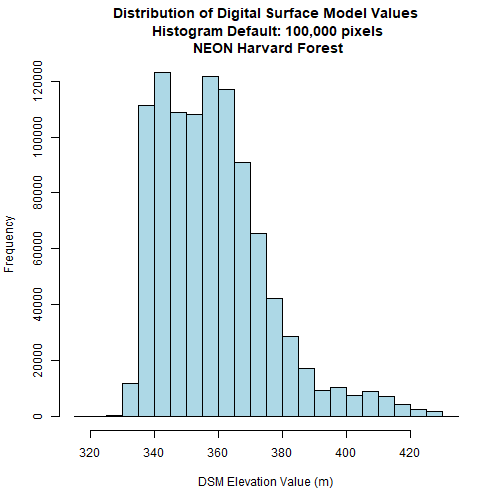
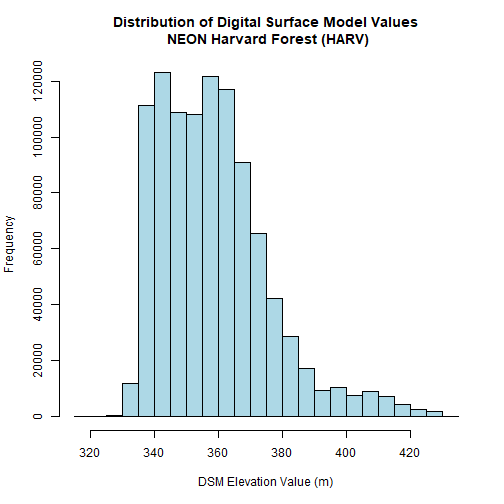
minor updates to remove outdated language

Changed region(s): [[0.2083, 0.0, 0.8333, 0.119]]

diff --git a/tutorials/R/Geospatial-skills/intro-raster-r/00-Raster-Structure/00-Raster-Structure.html b/tutorials/R/Geospatial-skills/intro-raster-r/00-Raster-Structure/00-Raster-Structure.html
@@ -385,6 +385,11 @@ information is strung together as a series of text elements.</p>
 <p>The spatial extent of an R spatial object represents the geographic “edge” or
 location that is the furthest north, south, east and west. In other words, <code>extent</code>
 represents the overall geographic coverage of the spatial object.</p>
+<p>You can see the spatial extent using <code>terra::ext</code>:</p>
+<pre><code>ext(DSM_HARV)
+
+## SpatExtent : 732000, 733000, 4713000, 4714000 (xmin, xmax, ymin, ymax)
+</code></pre>
 <h2 id="resolution">Resolution</h2>
 <p>A raster has horizontal (x and y) resolution. This resolution represents the
 area on the ground that each pixel covers. The units for our data are in meters.
@@ -403,13 +408,13 @@ Given our data resolution is 1 x 1, this means that each pixel represents a
 
 ## [1] &quot;+proj=utm +zone=18 +datum=WGS84 +units=m +no_defs&quot;
 </code></pre>
-<h2 id="calculate-raster-min-and-max-values">Calculate Raster Min and Max Values</h2>
-<p>It is useful to know the minimum or maximum values of a raster dataset. In
+<h2 id="display-raster-min-and-max-values">Display Raster Min and Max Values</h2>
+<p>It can be useful to know the minimum or maximum values of a raster dataset. In
 this case, given we are working with elevation data, these values represent the
 min/max elevation range at our site.</p>
-<p>Raster statistics are often calculated and embedded in a <code>geotiff</code> for us.
+<p>Raster statistics are often calculated and embedded in a <code>Geotiff</code> for us.
 However if they weren’t already calculated, we can calculate them using the
-<code>setMinMax()</code> function.</p>
+<code>min()</code> or <code>max()</code> functions.</p>
 <pre><code># view the min and max values
 
 min(DSM_HARV)
@@ -462,8 +467,7 @@ RGB_HARV &lt;-
 
 par(col.axis=&quot;white&quot;,col.lab=&quot;white&quot;,tck=0)
 
-plotRGB(RGB_HARV, r = 1, g = 2, b = 3, 
-        axes=TRUE, main=&quot;Raster With NoData Values Rendered in Black&quot;)
+plotRGB(RGB_HARV, r = 1, g = 2, b = 3, axes=TRUE)
 </code></pre>
 <p><img src="https://raw.githubusercontent.com/NEONScience/NEON-Data-Skills/main/tutorials/R/Geospatial-skills/intro-raster-r/00-Raster-Structure/rfigs/demonstrate-no-data-black-1.png" alt="Colorized raster image with NoDataValues around the edge rendered in black" /></p>
 <p>In the next image, the black edges have been assigned <code>NoDataValue</code>. R doesn’t
@@ -486,8 +490,13 @@ newRGBImage &lt;- app(RGB_HARV, func)
 
 # Create an RGB image from the raster stack
 
-plotRGB(newRGBImage, r = 1, g = 2, b = 3,
-        axes=TRUE, main=&quot;Raster With No Data Values\nNoDataValue= NA&quot;)
+plotRGB(newRGBImage, r = 1, g = 2, b = 3, axis=TRUE)
+
+## Warning in plot.window(...): &quot;axis&quot; is not a graphical parameter
+
+## Warning in plot.xy(xy, type, ...): &quot;axis&quot; is not a graphical parameter
+
+## Warning in title(...): &quot;axis&quot; is not a graphical parameter
 </code></pre>
 <p><img src="https://raw.githubusercontent.com/NEONScience/NEON-Data-Skills/main/tutorials/R/Geospatial-skills/intro-raster-r/00-Raster-Structure/rfigs/demonstrate-no-data-1.png" alt="Colorized raster image with NoDataValues around the edge removed" /></p>
 <h3 id="nodata-value-standard">NoData Value Standard</h3>
@@ -527,12 +536,12 @@ identifying outliers and bad data values in our raster data.</p>
 <pre><code># view histogram of data
 
 hist(DSM_HARV,
-     main=&quot;Distribution of Digital Surface Model Values\n Histogram Default: 100,000 pixels\n NEON Harvard Forest&quot;,
+     main=&quot;Distribution of Digital Surface Model Values\n NEON Harvard Forest (HARV)&quot;,
      xlab=&quot;DSM Elevation Value (m)&quot;,
      ylab=&quot;Frequency&quot;,
      col=&quot;lightblue&quot;)
 </code></pre>
-<p><img src="https://raw.githubusercontent.com/NEONScience/NEON-Data-Skills/main/tutorials/R/Geospatial-skills/intro-raster-r/00-Raster-Structure/rfigs/view-raster-histogram-1.png" alt="Histogram showing the distribution of digital surface model values that has a default maximum pixels value of 100,000" /></p>
+<p><img src="https://raw.githubusercontent.com/NEONScience/NEON-Data-Skills/main/tutorials/R/Geospatial-skills/intro-raster-r/00-Raster-Structure/rfigs/view-raster-histogram-1.png" alt="Histogram showing the distribution of digital surface model values" /></p>
 <p>The distribution of elevation values for our <code>Digital Surface Model (DSM)</code> looks
 reasonable. It is likely there are no bad data values in this particular raster.</p>
 <h2 id="raster-bands">Raster Bands</h2>

diff --git a/tutorials/R/Geospatial-skills/intro-raster-r/00-Raster-Structure/00-Raster-Structure.md b/tutorials/R/Geospatial-skills/intro-raster-r/00-Raster-Structure/00-Raster-Structure.md
@@ -359,7 +359,14 @@ The spatial extent is the geographic area that the raster data covers.
 
 The spatial extent of an R spatial object represents the geographic "edge" or 
 location that is the furthest north, south, east and west. In other words, `extent` 
-represents the overall geographic coverage of the spatial object.
+represents the overall geographic coverage of the spatial object. 
+
+You can see the spatial extent using `terra::ext`:
+
+
+    ext(DSM_HARV)
+
+    ## SpatExtent : 732000, 733000, 4713000, 4714000 (xmin, xmax, ymin, ymax)
 
 ## Resolution
 A raster has horizontal (x and y) resolution. This resolution represents the 
@@ -383,15 +390,15 @@ The best way to view resolution units is to look at the coordinate reference sys
 
     ## [1] "+proj=utm +zone=18 +datum=WGS84 +units=m +no_defs"
 
-## Calculate Raster Min and Max Values
+## Display Raster Min and Max Values
 
-It is useful to know the minimum or maximum values of a raster dataset. In
+It can be useful to know the minimum or maximum values of a raster dataset. In
 this case, given we are working with elevation data, these values represent the 
 min/max elevation range at our site.
 
-Raster statistics are often calculated and embedded in a `geotiff` for us. 
+Raster statistics are often calculated and embedded in a `Geotiff` for us. 
 However if they weren't already calculated, we can calculate them using the
-`setMinMax()` function.
+`min()` or `max()` functions.
 
 
     # view the min and max values
@@ -455,8 +462,7 @@ In the image below, the pixels that are black have `NoDataValue`s. The camera di
 
     par(col.axis="white",col.lab="white",tck=0)
 
-    plotRGB(RGB_HARV, r = 1, g = 2, b = 3, 
-            axes=TRUE, main="Raster With NoData Values Rendered in Black")
+    plotRGB(RGB_HARV, r = 1, g = 2, b = 3, axes=TRUE)
 
 ![Colorized raster image with NoDataValues around the edge rendered in black](https://raw.githubusercontent.com/NEONScience/NEON-Data-Skills/main/tutorials/R/Geospatial-skills/intro-raster-r/00-Raster-Structure/rfigs/demonstrate-no-data-black-1.png)
 
@@ -481,8 +487,14 @@ with the `NoDataValue` as `NA`.
 
     # Create an RGB image from the raster stack
 
-    plotRGB(newRGBImage, r = 1, g = 2, b = 3,
-            axes=TRUE, main="Raster With No Data Values\nNoDataValue= NA")
+    plotRGB(newRGBImage, r = 1, g = 2, b = 3, axis=TRUE)
+
+    ## Warning in plot.window(...): "axis" is not a graphical parameter
+
+    ## Warning in plot.xy(xy, type, ...): "axis" is not a graphical parameter
+
+    ## Warning in title(...): "axis" is not a graphical parameter
+
 
 ![Colorized raster image with NoDataValues around the edge removed](https://raw.githubusercontent.com/NEONScience/NEON-Data-Skills/main/tutorials/R/Geospatial-skills/intro-raster-r/00-Raster-Structure/rfigs/demonstrate-no-data-1.png)
 
@@ -532,12 +544,12 @@ identifying outliers and bad data values in our raster data.
     # view histogram of data
 
     hist(DSM_HARV,
-         main="Distribution of Digital Surface Model Values\n Histogram Default: 100,000 pixels\n NEON Harvard Forest",
+         main="Distribution of Digital Surface Model Values\n NEON Harvard Forest (HARV)",
          xlab="DSM Elevation Value (m)",
          ylab="Frequency",
          col="lightblue")
 
-![Histogram showing the distribution of digital surface model values that has a default maximum pixels value of 100,000](https://raw.githubusercontent.com/NEONScience/NEON-Data-Skills/main/tutorials/R/Geospatial-skills/intro-raster-r/00-Raster-Structure/rfigs/view-raster-histogram-1.png)
+![Histogram showing the distribution of digital surface model values](https://raw.githubusercontent.com/NEONScience/NEON-Data-Skills/main/tutorials/R/Geospatial-skills/intro-raster-r/00-Raster-Structure/rfigs/view-raster-histogram-1.png)
 
 The distribution of elevation values for our `Digital Surface Model (DSM)` looks 
 reasonable. It is likely there are no bad data values in this particular raster.
